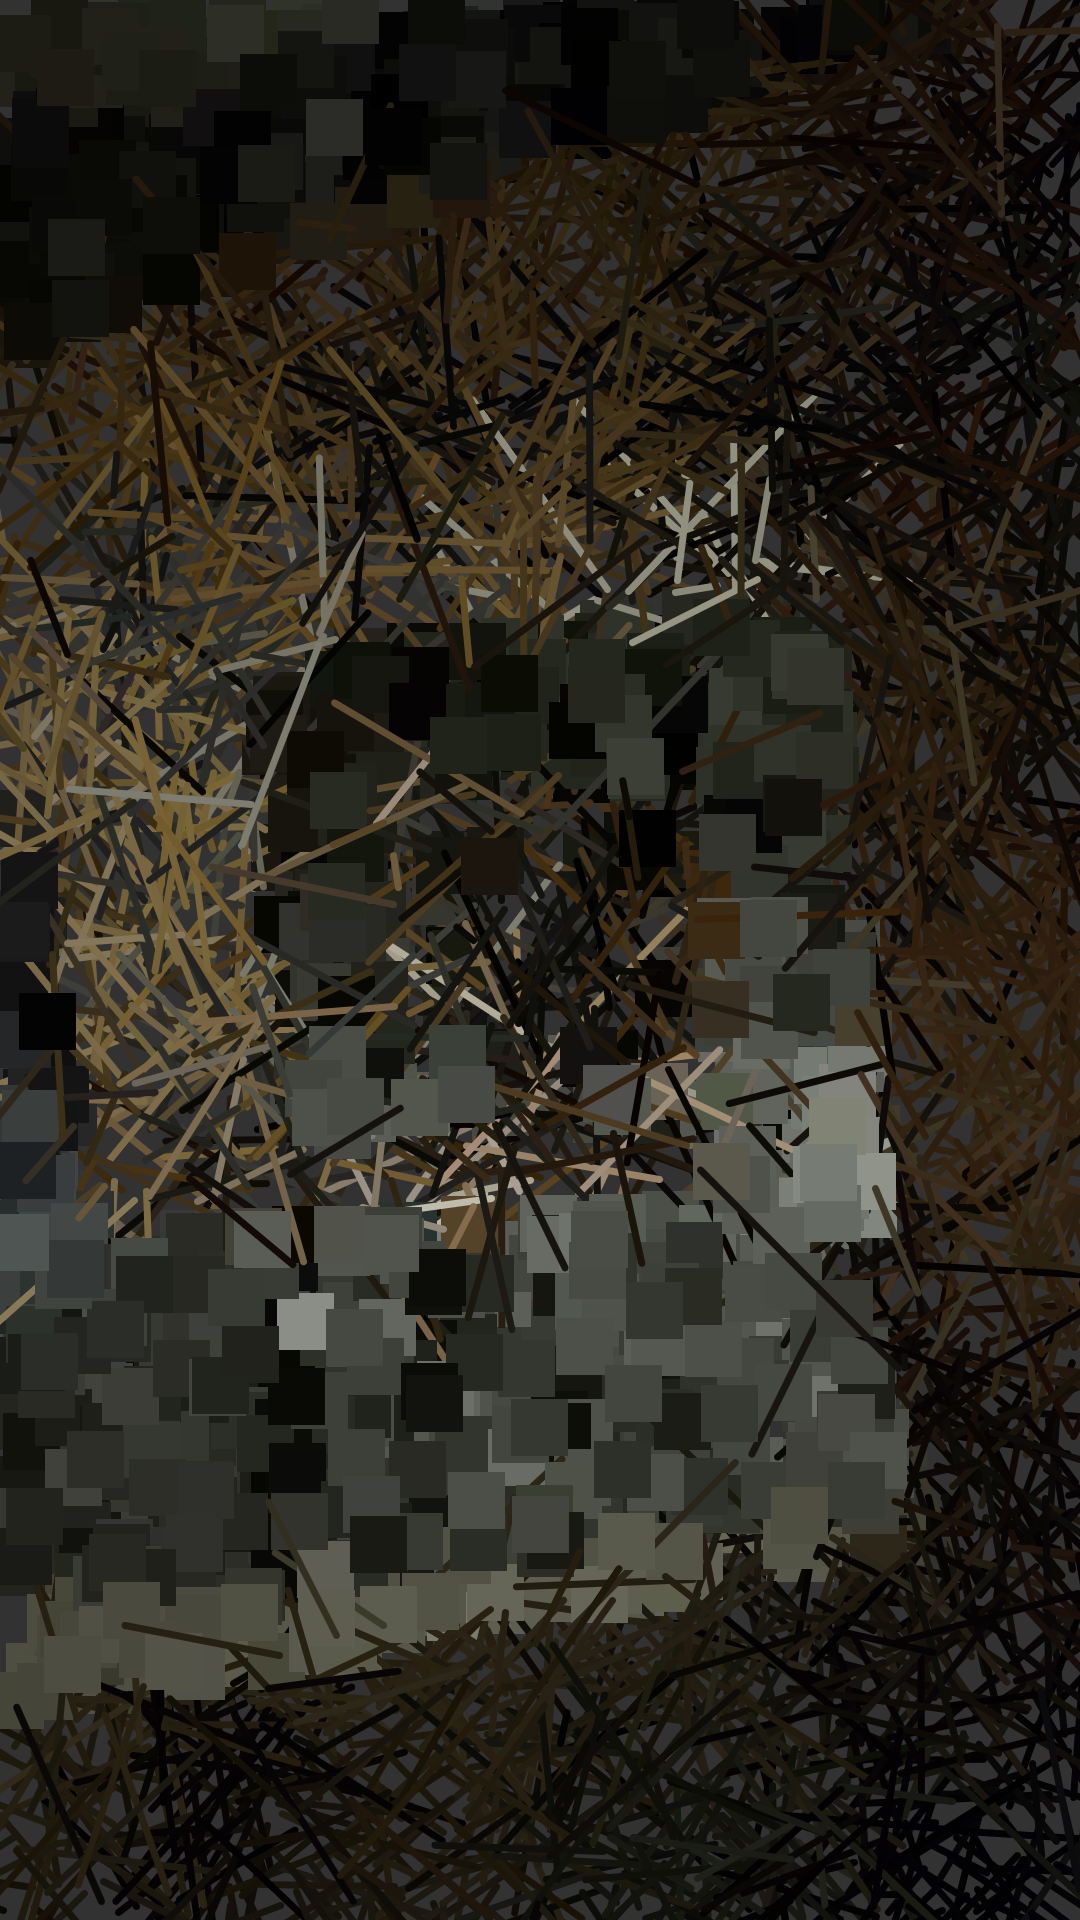
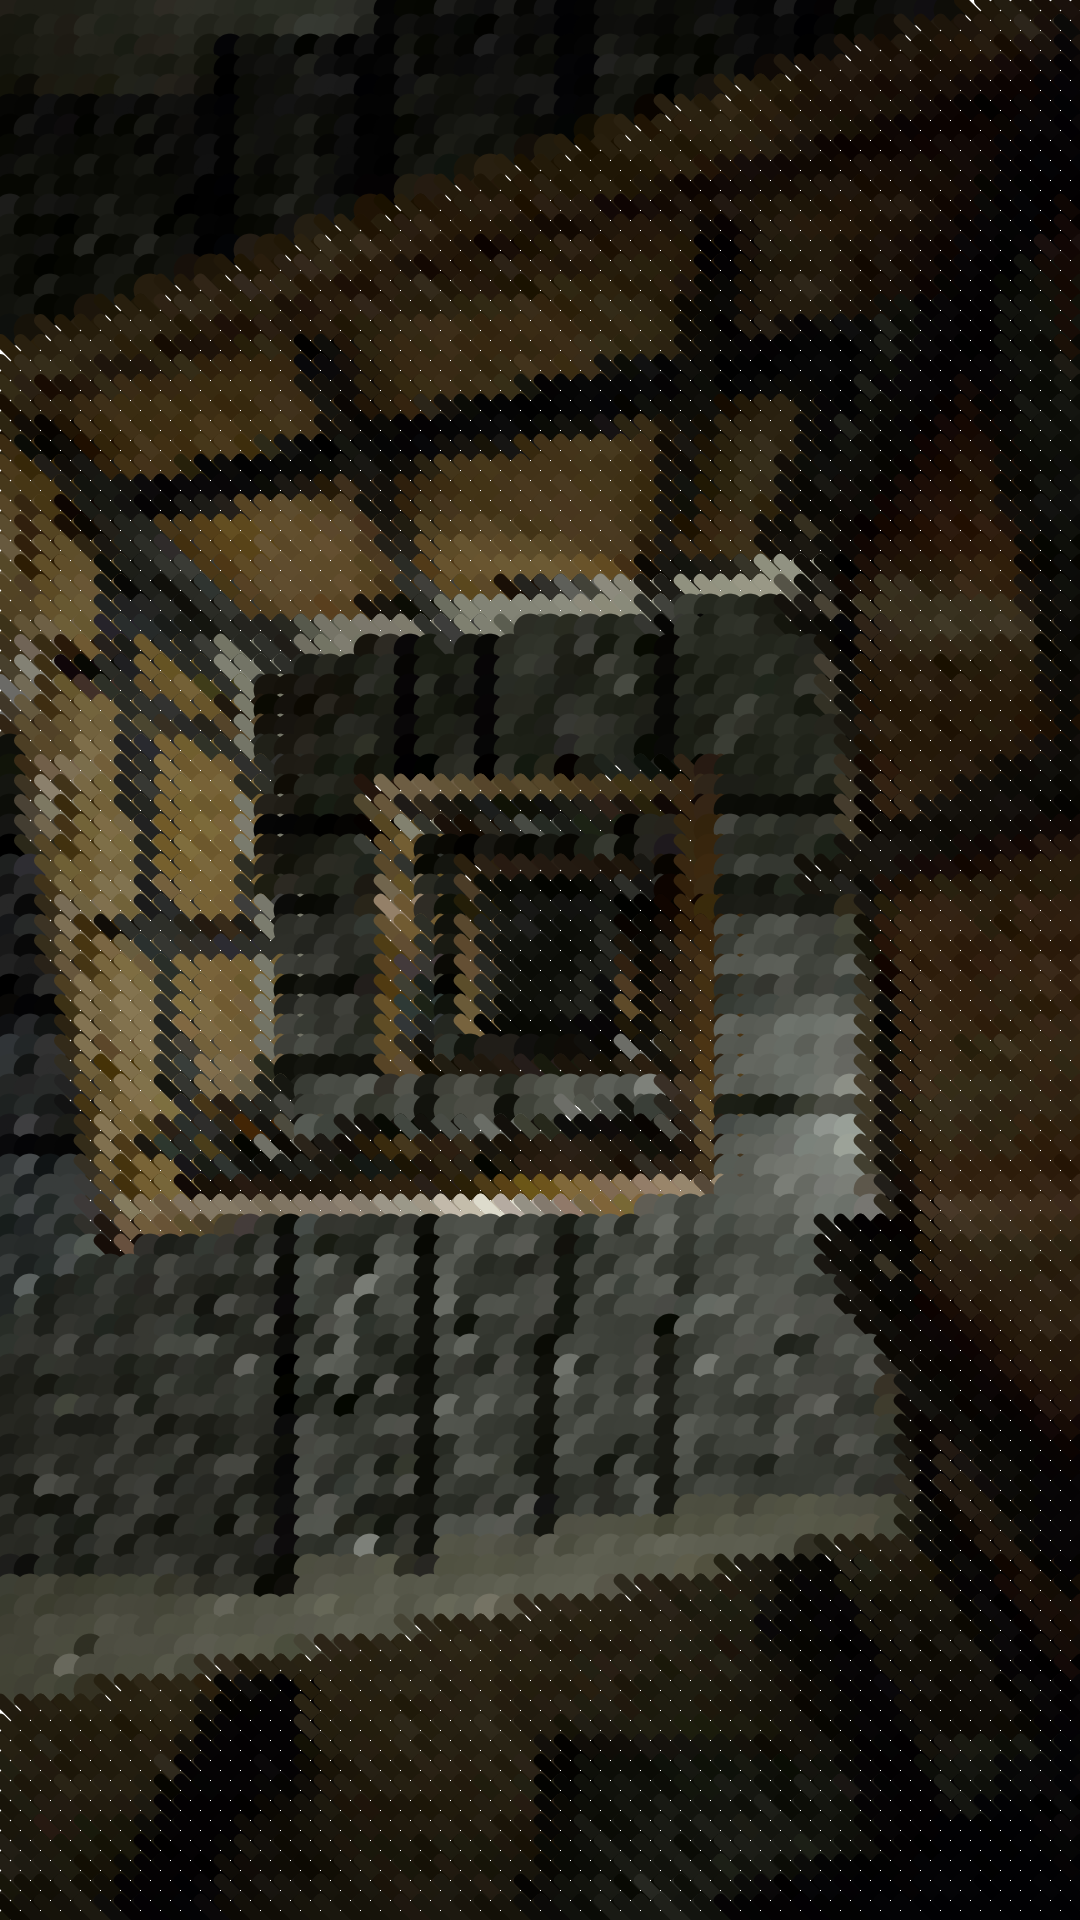
added new patterns

diff --git a/sketch.js b/sketch.js
@@ -13,35 +13,42 @@ function setup () {
 
   imageMode(CENTER);
   noStroke();
-  background(50);
+  background(255);
   sourceImg.loadPixels();
   maskImg.loadPixels();
 }
 
+const pointSize = 20;
+
 function draw () {
-  for(let i=0;i<200;i++) {
-    let x = floor(random(sourceImg.width));
-    let y = floor(random(sourceImg.height));
-    let x2 = (random(x-200,x+200));
-    let y2 = (random(y-200,y+200));
+  for(let i=0;i<1080/pointSize;i++) {
+    let x = int(i * pointSize);
+    let y = int(renderCounter * pointSize);
+    // let x = floor(random(sourceImg.width));
+    // let y = floor(random(sourceImg.height));
     let pix = sourceImg.get(x, y);
-    let pix2 = sourceImg.get(x2, y2);
     let mask = maskImg.get(x, y);
-    let pointSize = 50;
-    let halfSize = 10;
+    let halfSize = pointSize/2;
     fill(pix);
-    stroke(pix);
+    stroke(pix)
+
     if(mask[0] > 128) {
-      strokeWeight(7)
-      line(x, y, x2, y2);
+      // noFill()
+          strokeWeight(19)
+      // line(x, y+40, x+40, y);
+      // line(x+40, y+40, x, y);
+      line(x+10,y,x+10,y+20)  
+      line(x-10,y,x-10,y+20) 
     }
     else {
-      
-      rect(x-halfSize, y-halfSize, pointSize, pointSize);    
+     noFill()
+          strokeWeight(19)
+      line(x,y+10,x+20,y+10)  
+      line(x,y-10,x+20,y-10)  
     }
   }
   renderCounter = renderCounter + 1;
-  if(renderCounter > 20) {
+  if(renderCounter > 1920/pointSize) {
     console.log("Done!")
     noLoop();
     // saveBlocksImages();
